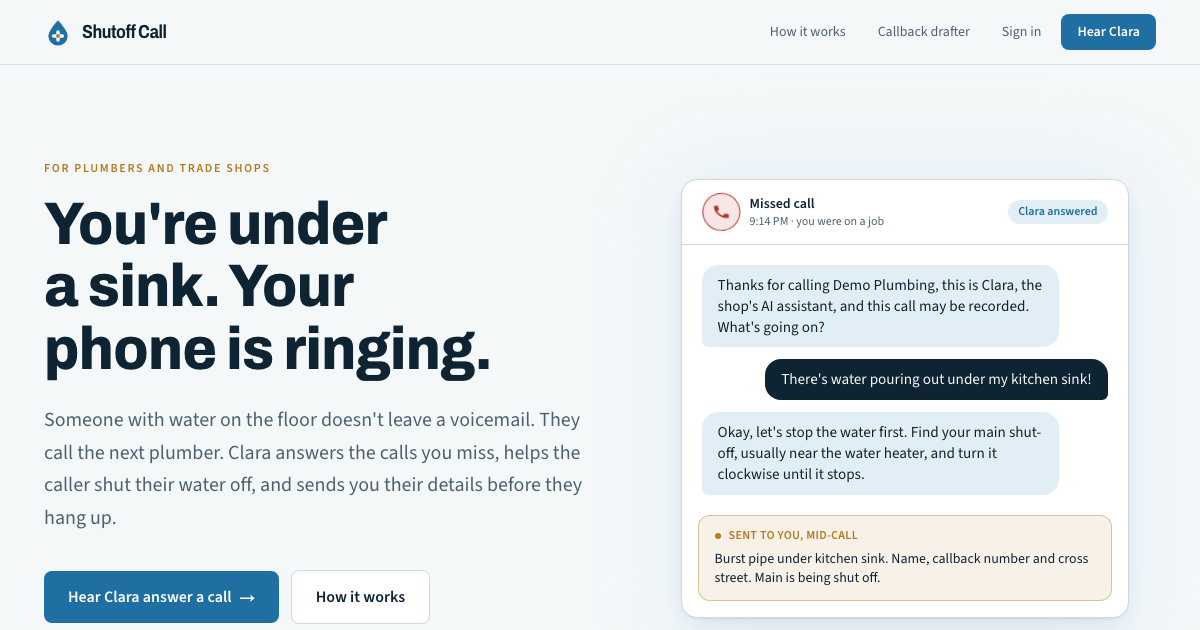
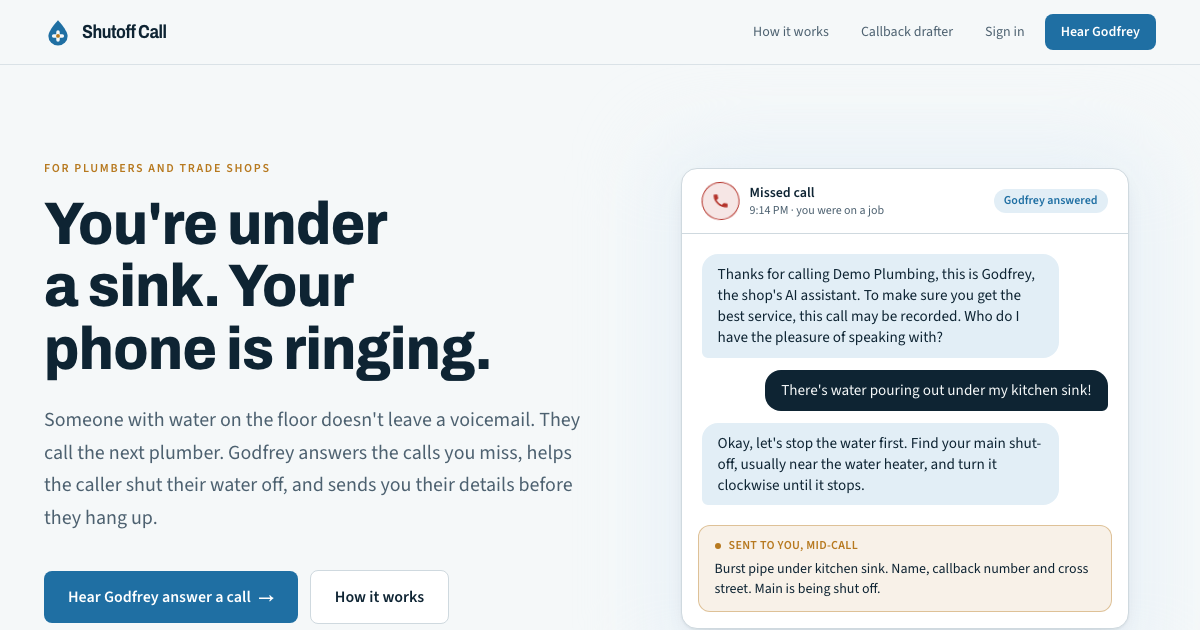
Godfrey, with the new greeting
The receptionist is Godfrey now, on every page, in the hero call and in
the link-preview images.

diff --git a/src/app/page.tsx b/src/app/page.tsx
@@ -10,8 +10,8 @@ const STEPS = [
     body: "Your carrier forwards only the calls you don't answer, after about four rings. You keep your number, and turning it off is one code from your phone.",
   },
   {
-    title: "Clara answers for your shop",
-    body: "She says up front that she's your AI assistant. On an emergency she walks the caller through the shut-off. If they smell gas, she tells them to get out and call 911 or PG&E.",
+    title: "Godfrey answers for your shop",
+    body: "He says up front that he's your AI assistant. On an emergency he walks the caller through the shut-off. If they smell gas, he tells them to get out and call 911 or PG&E.",
   },
   {
     title: "You get the details while they're still on the line",
@@ -22,7 +22,7 @@ const STEPS = [
 const WONT = [
   {
     title: "Pretend to be a person",
-    body: "Every call opens with “this is Clara, the shop's AI assistant, and this call may be recorded.”",
+    body: "Every call opens with “this is Godfrey, the shop's AI assistant,” and says the call may be recorded before anything else.",
   },
   {
     title: "Quote your prices",
@@ -34,7 +34,7 @@ const WONT = [
   },
   {
     title: "Say help is coming when it isn't",
-    body: "If the alert to you doesn't go through, Clara says so and promises nothing.",
+    body: "If the alert to you doesn't go through, Godfrey says so and promises nothing.",
   },
 ];
 
@@ -67,12 +67,12 @@ export default async function Home() {
             </h1>
             <p className="mt-6 max-w-xl text-lg leading-relaxed text-muted sm:text-xl">
               Someone with water on the floor doesn&apos;t leave a voicemail. They call the next
-              plumber. Clara answers the calls you miss, helps the caller shut their water off,
+              plumber. Godfrey answers the calls you miss, helps the caller shut their water off,
               and sends you their details before they hang up.
             </p>
             <div className="mt-9 flex flex-col gap-3 sm:flex-row sm:items-center">
               <Link href="/demo" className="btn-primary px-6 py-3.5 text-base">
-                Hear Clara answer a call
+                Hear Godfrey answer a call
                 <span aria-hidden="true">&rarr;</span>
               </Link>
               <Link href="#how" className="btn-ghost px-6 py-3.5 text-base">
@@ -80,7 +80,7 @@ export default async function Home() {
               </Link>
             </div>
             <p className="mt-5 text-sm text-muted">
-              Two minutes, from your own phone. She answers as a made-up shop.
+              Two minutes, from your own phone. He answers as a made-up shop.
             </p>
           </div>
           <CallCard />

diff --git a/src/app/demo/page.tsx b/src/app/demo/page.tsx
@@ -4,15 +4,15 @@ import { SiteFooter, SiteHeader } from "@/components/brand";
 import DemoForm from "./demo-form";
 
 export const metadata: Metadata = {
-  title: "Hear Clara answer a call",
+  title: "Hear Godfrey answer a call",
   description: "Call the demo line and hear an AI receptionist handle a burst pipe for a plumbing shop.",
 };
 
 const WHAT_HAPPENS = [
-  "She tells you up front she's an AI and the call may be recorded.",
-  "Say there's an emergency and she walks you through shutting the water off.",
-  "She takes your name and number, and the shop gets an alert while you're still talking.",
-  "Ask something she doesn't know and she says the plumber will confirm. She doesn't guess.",
+  "He tells you up front he's an AI and the call may be recorded.",
+  "Say there's an emergency and he walks you through shutting the water off.",
+  "He takes your name and number, and the shop gets an alert while you're still talking.",
+  "Ask something he doesn't know and he says the plumber will confirm. He doesn't guess.",
 ];
 
 export default function DemoPage() {
@@ -24,11 +24,11 @@ export default function DemoPage() {
           <div className="md:col-start-1">
             <p className="eyebrow">Live demo</p>
             <h1 className="mt-4 text-[2.4rem] leading-[1.05] font-extrabold sm:text-5xl">
-              Hear Clara answer a call.
+              Hear Godfrey answer a call.
             </h1>
             <p className="mt-5 text-lg leading-relaxed text-muted">
-              Call from your own phone and pretend something&apos;s wrong. She answers as Demo
-              Plumbing, a made-up shop, exactly the way she&apos;d answer for a real one. It
+              Call from your own phone and pretend something&apos;s wrong. He answers as Demo
+              Plumbing, a made-up shop, exactly the way he&apos;d answer for a real one. It
               takes about two minutes.
             </p>
           </div>

diff --git a/src/app/demo/demo-form.tsx b/src/app/demo/demo-form.tsx
@@ -124,7 +124,7 @@ export default function DemoForm() {
           <svg viewBox="0 0 16 16" className="h-4 w-4" fill="none" stroke="currentColor" strokeWidth="2.2" strokeLinecap="round" strokeLinejoin="round" aria-hidden="true">
             <path d="M3 8.5l3.2 3L13 4.5" />
           </svg>
-          You&apos;re in. Call Clara:
+          You&apos;re in. Call Godfrey:
         </p>
         <p className="mt-3 font-display text-[2.6rem] leading-none font-extrabold tracking-tight tabular-nums [font-stretch:90%] sm:text-5xl">
           {number.display}
@@ -153,7 +153,7 @@ export default function DemoForm() {
             ))}
           </ul>
           <p className="mt-5 text-xs leading-relaxed text-muted">
-            Clara is an AI, and the call may be recorded. She answers as Demo Plumbing, a made-up
+            Godfrey is an AI, and the call may be recorded. He answers as Demo Plumbing, a made-up
             shop, so nothing you say reaches a real plumber.
           </p>
         </div>

diff --git a/src/components/call-card.tsx b/src/components/call-card.tsx
@@ -5,7 +5,7 @@
 const LINES: { who: "clara" | "caller"; text: string }[] = [
   {
     who: "clara",
-    text: "Thanks for calling Demo Plumbing, this is Clara, the shop's AI assistant, and this call may be recorded. What's going on?",
+    text: "Thanks for calling Demo Plumbing, this is Godfrey, the shop's AI assistant. To make sure you get the best service, this call may be recorded. Who do I have the pleasure of speaking with?",
   },
   { who: "caller", text: "There's water pouring out under my kitchen sink!" },
   {
@@ -33,7 +33,7 @@ export default function CallCard() {
             <p className="text-xs text-muted">9:14 PM · you were on a job</p>
           </div>
           <span className="ml-auto rounded-full bg-accent-soft px-2.5 py-1 text-xs font-semibold text-accent">
-            Clara answered
+            Godfrey answered
           </span>
         </div>
 

diff --git a/src/app/layout.tsx b/src/app/layout.tsx
@@ -32,7 +32,7 @@ export const metadata: Metadata = {
     template: "%s · Shutoff Call",
   },
   description:
-    "Clara answers the calls a plumber misses, walks the caller through shutting off their water, and sends the shop their details while they're still on the line.",
+    "Godfrey answers the calls a plumber misses, walks the caller through shutting off their water, and sends the shop their details while they're still on the line.",
 };
 
 export const viewport: Viewport = {

diff --git a/src/app/login/page.tsx b/src/app/login/page.tsx
@@ -119,7 +119,7 @@ export default async function LoginPage({
           <p className="mt-6 text-center text-sm text-muted">
             Looking for the AI receptionist?{" "}
             <Link href="/demo" className="font-semibold text-accent underline-offset-4 hover:underline">
-              Hear Clara answer a call
+              Hear Godfrey answer a call
             </Link>
           </p>
         </div>

diff --git a/src/components/brand.tsx b/src/components/brand.tsx
@@ -42,7 +42,7 @@ export function SiteHeader({ signedIn = false }: { signedIn?: boolean }) {
             {signedIn ? "Dashboard" : "Sign in"}
           </Link>
           <Link href="/demo" className="btn-primary px-4 py-2 text-sm">
-            Hear Clara
+            Hear Godfrey
           </Link>
         </nav>
       </div>

diff --git a/src/app/not-found.tsx b/src/app/not-found.tsx
@@ -15,7 +15,7 @@ export default function NotFound() {
             Back home
           </Link>
           <Link href="/demo" className="btn-ghost">
-            Hear Clara instead
+            Hear Godfrey instead
           </Link>
         </div>
       </main>

diff --git a/README.md b/README.md
@@ -4,8 +4,8 @@ The website for Shutoff Call, an AI receptionist for plumbers and other trade sh
 two jobs:
 
 - **Show the receptionist.** The landing page tells the story, and `/demo` hands a visitor the
-  number of the live demo line once they say who they are. Clara answers as a made-up shop,
-  "Demo Plumbing", so anyone can hear her handle a burst pipe from their own phone.
+  number of the live demo line once they say who they are. Godfrey answers as a made-up shop,
+  "Demo Plumbing", so anyone can hear him handle a burst pipe from their own phone.
 - **The callback drafter**, a free tool for the calls that already got missed: log the number
   and what the caller wanted, and Claude writes three send-ready callback texts with an urgency
   read and no invented prices, arrival times, or availability.
